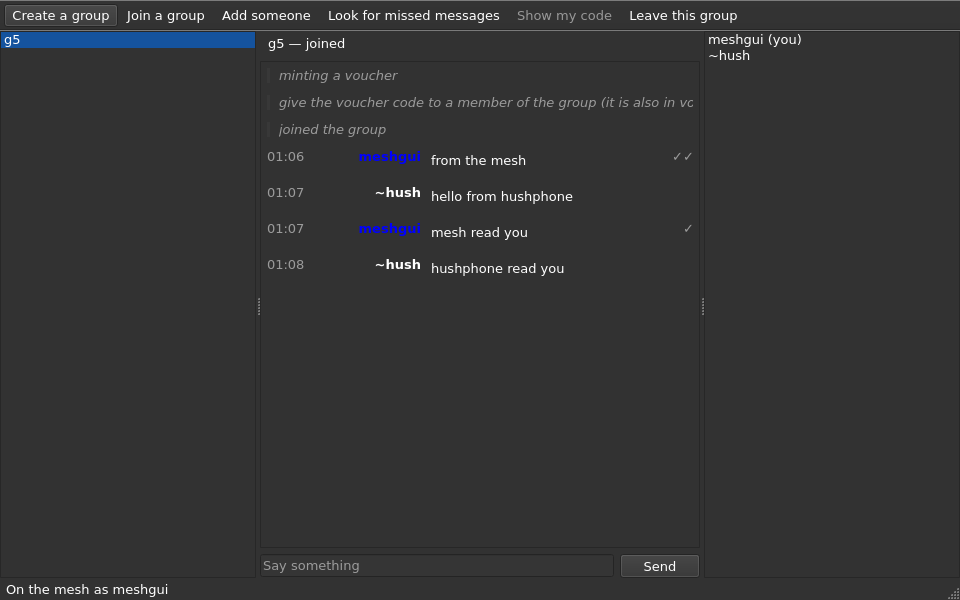
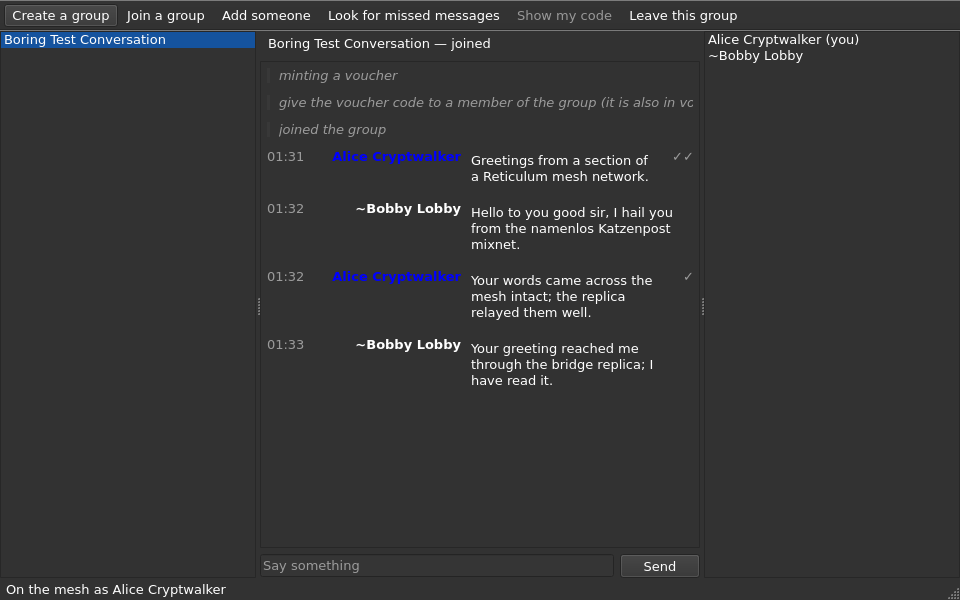
README: Alice Cryptwalker and Bobby Lobby in Boring Test Conversation

diff --git a/README.md b/README.md
@@ -13,12 +13,13 @@ the nearest replica it hears announce. There is no daemon between the client and
 open mode, BACAP is the only protection; a closed mesh adds a Noise layer in the transport.
 
 <p>
-  <img src="docs/hushphone-interop.png" alt="katzenrns on the desktop, joined to a group through a Reticulum bridge: messages from a hushphone user on the mixnet, with read receipts" width="640">
+  <img src="docs/hushphone-interop.png" alt="katzenrns on the desktop: Alice Cryptwalker on a Reticulum mesh in a group with Bobby Lobby, a hushphone user on the mixnet, greeting each other, with read receipts" width="640">
 </p>
 
-katzenrns on a Reticulum mesh, in one group with [hushphone](https://github.com/katzenpost/hushphone)
-on the namenlos mixnet. meshgui joined by voucher through a bridge replica; the messages crossed it
-both ways, and the check marks are each side's read receipts for the other's.
+Alice Cryptwalker on a Reticulum mesh, in one group with Bobby Lobby on
+[hushphone](https://github.com/katzenpost/hushphone) over the namenlos mixnet. Alice joined by
+voucher through a bridge replica; the greetings crossed it both ways, and the check marks on
+Alice's lines are the courier's (one) and Bobby's (two) acknowledgements.
 
 ## Run
 
